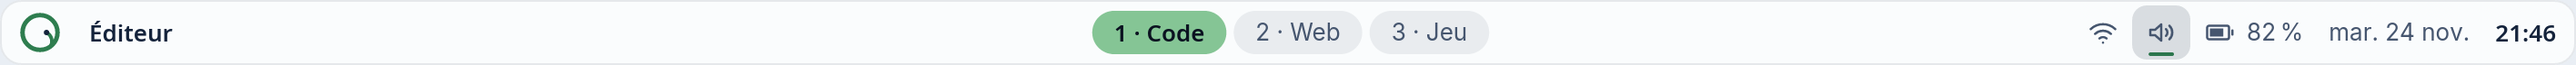
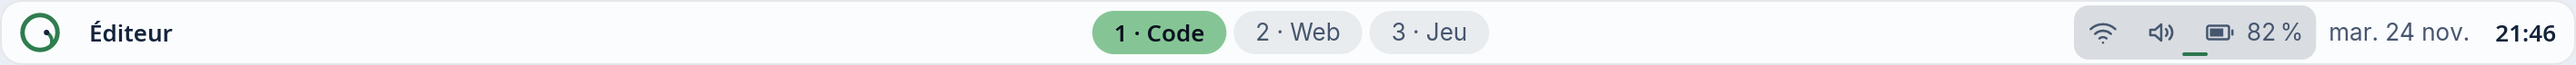
UI-02b: the indicators are one button again, with one pill and one mark

Changed region(s): [[0.8079, 0.0833, 0.9011, 0.9167]]

diff --git a/desktop/bar/src/app.rs b/desktop/bar/src/app.rs
@@ -92,15 +92,13 @@ pub struct Bar {
     pub history: History,
     /// The quick settings of the control centre.
     pub quick: Quick,
-    /// The indicator the control centre was opened from: it carries the open mark.
-    pub opener: Option<Indicator>,
     /// The Wi-Fi signal, a connection under way, the Internet, from NetworkManager.
     pub link: Option<Link>,
     /// The Bluetooth radio; `None` without an adapter: no indicator.
     pub radio: Option<Radio>,
 }
 
-/// An indicator of the bar: each one is a button that opens the control centre.
+/// An indicator of the bar. Together they make one button, which opens the control centre.
 #[derive(Debug, Clone, Copy, PartialEq, Eq)]
 pub enum Indicator {
     Bluetooth,
@@ -114,8 +112,8 @@ pub enum Indicator {
 pub enum Target {
     Sherlock,
     Workspace(usize),
-    /// An indicator: the control centre.
-    Status(Indicator),
+    /// The indicators, one button: the control centre.
+    Status,
     /// The date and time: the calendar.
     Clock,
 }
@@ -148,9 +146,6 @@ pub enum Message {
     Resized(Id, f32),
     /// Opens a panel, or closes it when it is open.
     TogglePanel(Panel),
-    /// An indicator was clicked: the control centre opens, or closes when it was opened from
-    /// that indicator; opened from another one, it stays and that one takes the mark.
-    Indicator(Indicator),
     ClosePanel,
     /// The calendar shows this month.
     ShowMonth(Month),
@@ -276,14 +271,6 @@ impl Bar {
             }
             Message::ToggleMenu => return self.toggle_menu(),
             Message::TogglePanel(panel) => return self.toggle_panel(panel),
-            Message::Indicator(indicator) => {
-                let switch = self.panel_open() == Some(Panel::Control)
-                    && self.opener.is_some_and(|o| o != indicator);
-                self.opener = Some(indicator);
-                if !switch {
-                    return self.toggle_panel(Panel::Control);
-                }
-            }
             Message::ClosePanel => return self.close_panel(),
             Message::Resized(id, width) => {
                 if Some(id) == self.surface {
@@ -503,15 +490,13 @@ impl Bar {
     /// The bar buttons, in Tab order: Sherlock, the workspaces, the indicators, the clock.
     pub fn targets(&self) -> Vec<Target> {
         let workspaces = self.group().map_or(0, |g| g.workspaces.len());
-        let indicators = [
-            self.radio.is_some().then_some(Indicator::Bluetooth),
-            self.network.is_some().then_some(Indicator::Network),
-            self.sound.is_some().then_some(Indicator::Sound),
-            matches!(self.battery, Some(Some(_))).then_some(Indicator::Battery),
-        ];
+        let status = self.radio.is_some()
+            || self.network.is_some()
+            || self.sound.is_some()
+            || matches!(self.battery, Some(Some(_)));
         std::iter::once(Target::Sherlock)
             .chain((0..workspaces).map(Target::Workspace))
-            .chain(indicators.into_iter().flatten().map(Target::Status))
+            .chain(status.then_some(Target::Status))
             .chain(self.clock.is_some().then_some(Target::Clock))
             .collect()
     }
@@ -526,7 +511,7 @@ impl Bar {
         self.focused().map(|target| match target {
             Target::Sherlock => Message::ToggleMenu,
             Target::Workspace(i) => Message::SelectWorkspace(i),
-            Target::Status(indicator) => Message::Indicator(indicator),
+            Target::Status => Message::TogglePanel(Panel::Control),
             Target::Clock => Message::TogglePanel(Panel::Calendar),
         })
     }
@@ -879,20 +864,28 @@ impl Bar {
         surface::shadowed(bar, shape.radius, Elevation::Flat).into()
     }
 
-    /// The indicators, each a button that opens the control centre, then the date and time,
-    /// which open the calendar: ghost buttons, whose padding the gaps give back.
+    /// The indicators, one button with one pill around them all, which opens the control centre
+    /// (UI-02: one by one they opened the same panel), then the date and time, which open the
+    /// calendar: ghost buttons, whose padding the gaps give back.
     fn view_indicators(
         &self,
         ring: &impl Fn(ui::Control<'static, Message>, Target) -> ui::Control<'static, Message>,
     ) -> Element<'static, Message> {
         let gap = metrics::STATUS_GAP - 2.0 * panels::BAR_BUTTON_PADDING;
         let mut buttons = row![].spacing(gap.max(0.0)).align_y(Alignment::Center);
-        let control = self.panel_open() == Some(Panel::Control);
-        for (indicator, content) in self.indicators() {
-            let open = control && self.opener.unwrap_or(indicator) == indicator;
-            let press = Some(Message::Indicator(indicator));
-            let button = panels::bar_button(content, open, press);
-            buttons = buttons.push(ring(button, Target::Status(indicator)));
+        let status: Vec<_> = self
+            .indicators()
+            .into_iter()
+            .map(|(_, content)| content)
+            .collect();
+        if !status.is_empty() {
+            let line = row(status)
+                .spacing(metrics::STATUS_GAP)
+                .align_y(Alignment::Center);
+            let open = self.panel_open() == Some(Panel::Control);
+            let toggle = Some(Message::TogglePanel(Panel::Control));
+            let button = panels::bar_button(line, open, toggle);
+            buttons = buttons.push(ring(button, Target::Status));
         }
         if let Some(clock) = self.clock.as_ref() {
             let p = color::palette();
@@ -1184,7 +1177,7 @@ mod tests {
                 Target::Workspace(i) => {
                     assert!(matches!(activated, Some(Message::SelectWorkspace(j)) if j == i));
                 }
-                Target::Status(_) | Target::Clock => panic!("no indicator in this bar"),
+                Target::Status | Target::Clock => panic!("no indicator in this bar"),
             }
         }
         let _ = bar.update(Message::Focus(Direction::Previous));
@@ -1213,10 +1206,10 @@ mod tests {
             Some(Message::TogglePanel(Panel::Calendar))
         ));
         let _ = bar.update(Message::Focus(Direction::Previous));
-        assert_eq!(bar.focused(), Some(Target::Status(Indicator::Sound)));
+        assert_eq!(bar.focused(), Some(Target::Status));
         assert!(matches!(
             bar.activation(),
-            Some(Message::Indicator(Indicator::Sound))
+            Some(Message::TogglePanel(Panel::Control))
         ));
         // Opened, then the other one: one panel at a time, and Escape closes it.
         let _ = bar.update(Message::Surface(Id::unique()));
@@ -1458,18 +1451,29 @@ mod tests {
 
     #[test]
     fn the_bluetooth_indicator_shows_only_with_an_adapter() {
+        let shown = |bar: &Bar| {
+            bar.indicators()
+                .iter()
+                .any(|(indicator, _)| *indicator == Indicator::Bluetooth)
+        };
         let mut bar = with_workspaces();
-        assert!(
-            !bar.targets()
-                .contains(&Target::Status(Indicator::Bluetooth))
-        );
+        assert!(!shown(&bar) && !bar.targets().contains(&Target::Status));
         let _ = bar.update(Message::Radio(Some(Radio::Connected)));
-        assert_eq!(bar.targets()[4], Target::Status(Indicator::Bluetooth));
+        assert!(shown(&bar));
+        // The indicators are one button, one stop of Tab.
+        assert_eq!(bar.targets()[4], Target::Status);
+        let _ = bar.update(Message::Sound(crate::source::sound::Sound {
+            volume: 40,
+            muted: false,
+        }));
+        let count = bar
+            .targets()
+            .iter()
+            .filter(|t| **t == Target::Status)
+            .count();
+        assert_eq!(count, 1);
         let _ = bar.update(Message::Radio(None));
-        assert!(
-            !bar.targets()
-                .contains(&Target::Status(Indicator::Bluetooth))
-        );
+        assert!(!shown(&bar));
     }
 
     /// The only test of this binary that changes the theme: the others draw nothing.

diff --git a/desktop/bar/tests/render.rs b/desktop/bar/tests/render.rs
@@ -4,7 +4,7 @@ use std::path::PathBuf;
 use std::sync::{Mutex, PoisonError};
 use std::time::{Duration, Instant};
 
-use bar::app::{Bar, Indicator, Message};
+use bar::app::{Bar, Message};
 use bar::calendar::Month;
 use bar::history::{Entry, Group};
 use bar::menu;
@@ -514,8 +514,8 @@ fn the_centre_runs_an_action_and_clears() {
     ));
 }
 
-/// The bar with the control centre open from the battery: its button keeps a veil and the
-/// green mark (UI-01). `bar-open`, then `bar-open-light`.
+/// The bar with the control centre open: the indicators, one button, keep one veil and the
+/// green mark under the whole group (UI-02). `bar-open`, then `bar-open-light`.
 #[test]
 fn the_button_of_the_open_panel_is_marked() {
     for (which, suffix) in [(Theme::Dark, ""), (Theme::Light, "-light")] {
@@ -523,19 +523,44 @@ fn the_button_of_the_open_panel_is_marked() {
             let mut state = sample();
             state.panel_motion = Some(false);
             let _ = state.update(Message::Surface(iced::window::Id::unique()));
-            let _ = state.update(Message::Indicator(Indicator::Battery));
-            assert_eq!(state.panel_open(), Some(Panel::Control));
-            assert_eq!(state.opener, Some(Indicator::Battery));
-            // Another indicator moves the mark and leaves the centre open.
-            let _ = state.update(Message::Indicator(Indicator::Sound));
+            let _ = state.update(Message::TogglePanel(Panel::Control));
             assert_eq!(state.panel_open(), Some(Panel::Control));
             let ui = Simulator::with_size(bar::settings(), bar_size(), state.view_bar());
             assert_written(capture(ui, &format!("bar-open{suffix}")));
-            // The same one again closes it.
-            let _ = state.update(Message::Indicator(Indicator::Sound));
+            let _ = state.update(Message::TogglePanel(Panel::Control));
             assert_eq!(state.panel_open(), None);
         });
     }
+}
+
+/// A click anywhere on the group of indicators, on any of its icons or between them, opens the
+/// control centre (UI-02).
+#[test]
+fn a_click_anywhere_on_the_indicators_opens_the_control_centre() {
+    let state = sample();
+    let (width, height) = bar_size();
+    // The group sits left of the clock: its battery value, then points across it.
+    let mut ui = Simulator::with_size(bar::settings(), (width, height), state.view_bar());
+    let battery = ui.find("82\u{202F}%").expect("battery found");
+    let right = battery.visible_bounds().map_or(0.0, |b| b.x + b.width);
+    let mut points = Vec::new();
+    // From the battery value leftwards, every 12 px over the group: the icons and the gaps.
+    let mut x = right - 2.0;
+    for _ in 0..8 {
+        points.push(iced::Point::new(x, height / 2.0));
+        x -= 12.0;
+    }
+    for point in &points {
+        ui.point_at(*point);
+        ui.simulate(iced_test::simulator::click());
+    }
+    let messages: Vec<_> = ui.into_messages().collect();
+    assert_eq!(messages.len(), points.len(), "{messages:?}");
+    assert!(
+        messages
+            .iter()
+            .all(|m| matches!(m, Message::TogglePanel(Panel::Control)))
+    );
 }
 
 #[test]
@@ -549,7 +574,7 @@ fn a_click_on_the_indicators_or_the_clock_opens_their_panel() {
         messages[..],
         [
             Message::TogglePanel(Panel::Calendar),
-            Message::Indicator(Indicator::Battery)
+            Message::TogglePanel(Panel::Control)
         ]
     ));
 }

diff --git a/docs/bar.md b/docs/bar.md
@@ -43,17 +43,18 @@ is at 8.8 or more.
 An indicator that has not been read yet is not shown. Without a battery, the battery
 indicator disappears. A battery discharging below 15 % turns amber.
 
-**Indicators** (UI-01). Bluetooth, network, sound and battery are each a button of their own, with an
-18 px icon (`metrics::STATUS_ICON`, the board's 16 was found too small), 30 high and 7 on each
-side (`panels::BAR_BUTTON_HEIGHT`, `BAR_BUTTON_PADDING`): a pill fades in on hover and deepens on
-press, and the content shrinks a little while pressed. Each opens the control centre; the one
-it was opened from carries the open mark, a short green line under it, and the veil. A click on
-another indicator while the centre is open moves the mark there and leaves the centre open; a
-click on the same one closes it. The clock and the Sherlock button have the same pill, veil and
-mark. Tab reaches each indicator. The application name ends with « … » where the left half of
-the bar ends.
+**Indicators** (UI-01, UI-02). Bluetooth, network, sound and battery make one button, with one
+hit area, as in D-20b: they all open the same control centre, and one by one (UI-01) they only
+split it (the author's test, UI-02). Their icons are 18 px (`metrics::STATUS_ICON`, the board's
+16 was found too small), the button 30 high with 7 on each side (`panels::BAR_BUTTON_HEIGHT`,
+`BAR_BUTTON_PADDING`), the icons 14 apart inside it. One pill around the whole group fades in on
+hover and deepens on press, and the group shrinks a little while pressed; while the control
+centre is open, the group keeps the veil and a short green mark under its middle. A click
+anywhere on it, on an icon or between two, opens or closes the control centre. The clock and the
+Sherlock button have the same pill, veil and mark. Tab reaches the group once. The application
+name ends with « … » where the left half of the bar ends.
 
-![The control centre opened from the sound, its button marked](../desktop/bar/screenshots/bar-open.png)
+![The control centre open, the group of indicators marked](../desktop/bar/screenshots/bar-open.png)
 ![The same in the light theme](../desktop/bar/screenshots/bar-open-light.png)
 
 **Live icons** (UI-01). Each icon shows the real state, drawn from its level rather than
